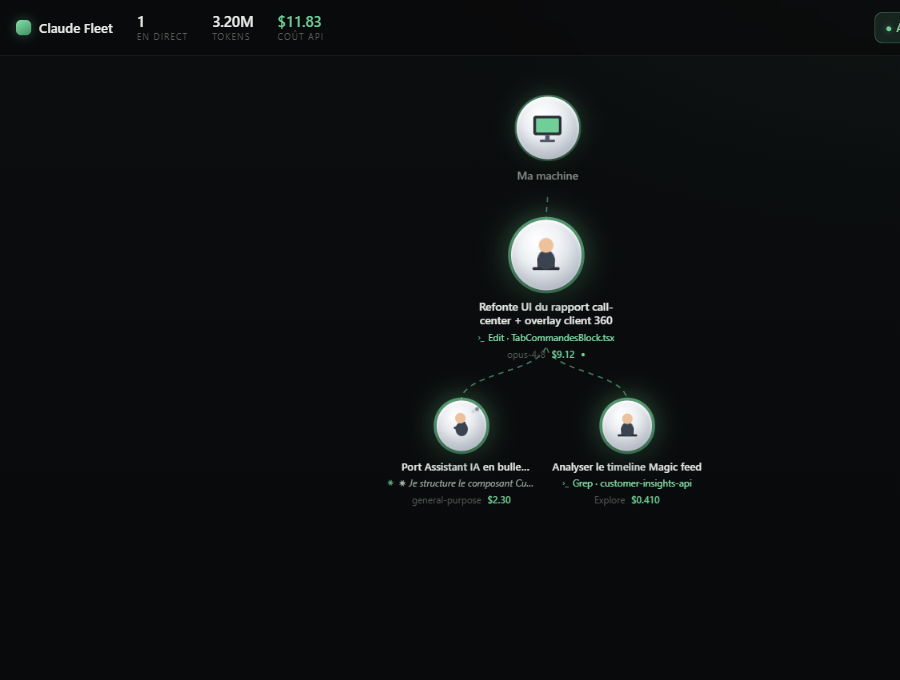
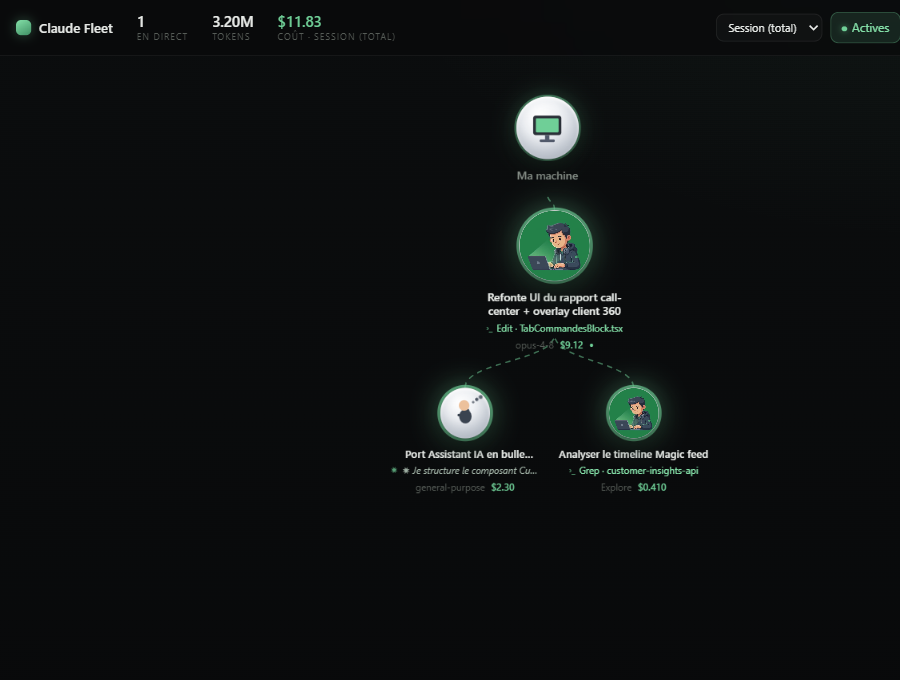
feat(ui): personnages video dans les orbes (working + chilling)
- clips MP4 generes (Gemini) recadres carre + reduits (360px, ~80Ko) via ffmpeg: media/avatars/{working,chilling}.mp4
- l'orbe devient un hublot circulaire qui joue le clip selon l'etat (type->working, sit->chilling), autoplay/loop/muted
- fond vert conserve (colle au theme) -> pas de chroma-key (le canape/accents verts l'interdisaient)
- fallback SVG anime pour les etats sans clip (thinking/done/searching...); hub garde son ecran
- CSP media-src + injection de l'URI media (__mediaBase)

diff --git a/media/main.js b/media/main.js
@@ -25,6 +25,9 @@
   const manualPos = new Map(); // id -> {x, y} when user-dragged
   const NODE_W = 150, SESSION_R = 33, AGENT_R = 23, HUB_R = 27;
   const HUB_ID = "__hub__";
+  const MEDIA = (typeof window !== "undefined" && window.__mediaBase) || "media";
+  // generated character clips per pose (others fall back to the SVG character)
+  const VIDEO_BY_POSE = { type: "working.mp4", sit: "chilling.mp4" };
 
   // little animated character drawn inside each orb (pose set via [data-pose])
   const AVATAR_SVG =
@@ -186,8 +189,9 @@
     el.dataset.id = node.id;
     el.style.transform = "translate3d(-9999px,-9999px,0)"; // hidden until first layout frame
     const inner = node.kind === "hub" ? HUB_SVG : AVATAR_SVG;
+    const vid = node.kind === "hub" ? "" : '<video class="orb-video" muted loop playsinline></video>';
     el.innerHTML =
-      '<div class="orb">' + inner + '</div>' +
+      '<div class="orb">' + vid + inner + "</div>" +
       '<div class="caption">' +
       '<div class="cap-title"></div>' +
       '<div class="cap-act"><span class="ca-ico"></span><span class="ca-text"></span></div>' +
@@ -206,7 +210,27 @@
       (node.working ? " working" : "") +
       (node.managed && node.kind === "session" ? " managed" : "") +
       (manualPos.has(node.id) ? " pinned" : "");
-    el.dataset.pose = poseOf(node);
+    const pose = poseOf(node);
+    el.dataset.pose = pose;
+
+    // video character for poses that have a clip; SVG fallback otherwise
+    const video = el.querySelector(".orb-video");
+    if (video) {
+      const orb = el.querySelector(".orb");
+      const vfile = VIDEO_BY_POSE[pose];
+      if (vfile) {
+        if (video.dataset.file !== vfile) {
+          video.src = MEDIA + "/avatars/" + vfile;
+          video.dataset.file = vfile;
+        }
+        orb.classList.add("has-video");
+        if (video.paused) video.play().catch(() => {});
+      } else {
+        orb.classList.remove("has-video");
+        if (!video.paused) video.pause();
+      }
+    }
+
     el.querySelector(".cap-title").textContent = node.title;
     const act = el.querySelector(".cap-act");
     act.className = "cap-act " + node.activityKind;

diff --git a/media/style.css b/media/style.css
@@ -134,6 +134,15 @@ button.toggle.on::before {
 .node.dragging { z-index: 20; }
 .node.dragging .orb { cursor: grabbing; transform: scale(1.08); box-shadow: 0 16px 34px rgba(0,0,0,0.6), 0 0 0 2px rgba(111,207,151,0.6), 0 0 26px rgba(111,207,151,0.4); }
 
+/* video character clip (fills the orb as a circular porthole) */
+.orb { overflow: hidden; }
+.orb-video {
+  position: absolute; inset: 0; width: 100%; height: 100%;
+  object-fit: cover; border-radius: 50%; display: none; pointer-events: none;
+}
+.orb.has-video .orb-video { display: block; }
+.orb.has-video .avatar { display: none; }
+
 /* ---------- animated character inside the orb ---------- */
 .avatar { width: 84%; height: 84%; overflow: visible; }
 .avatar * { transform-box: fill-box; transform-origin: center; }

diff --git a/src/panel.ts b/src/panel.ts
@@ -22,9 +22,11 @@ export function buildHtml(webview: vscode.Webview, extensionUri: vscode.Uri): st
   const scriptUri = webview.asWebviewUri(
     vscode.Uri.joinPath(extensionUri, "media", "main.js")
   );
+  const mediaUri = webview.asWebviewUri(vscode.Uri.joinPath(extensionUri, "media"));
   const csp = [
     `default-src 'none'`,
     `img-src ${webview.cspSource} https: data:`,
+    `media-src ${webview.cspSource}`,
     `style-src ${webview.cspSource} 'unsafe-inline'`,
     `font-src ${webview.cspSource}`,
     `script-src 'nonce-${nonce}'`,
@@ -76,6 +78,7 @@ export function buildHtml(webview: vscode.Webview, extensionUri: vscode.Uri): st
   </aside>
   <div id="scrim" class="scrim hidden"></div>
 
+  <script nonce="${nonce}">window.__mediaBase = "${mediaUri}";</script>
   <script nonce="${nonce}" src="${scriptUri}"></script>
 </body>
 </html>`;

diff --git a/media/preview.html b/media/preview.html
@@ -33,6 +33,7 @@
   <div id="scrim" class="scrim hidden"></div>
 
   <script>
+    window.__mediaBase = ".";
     window.acquireVsCodeApi = () => ({ postMessage() {}, getState() {}, setState() {} });
   </script>
   <script src="main.js"></script>